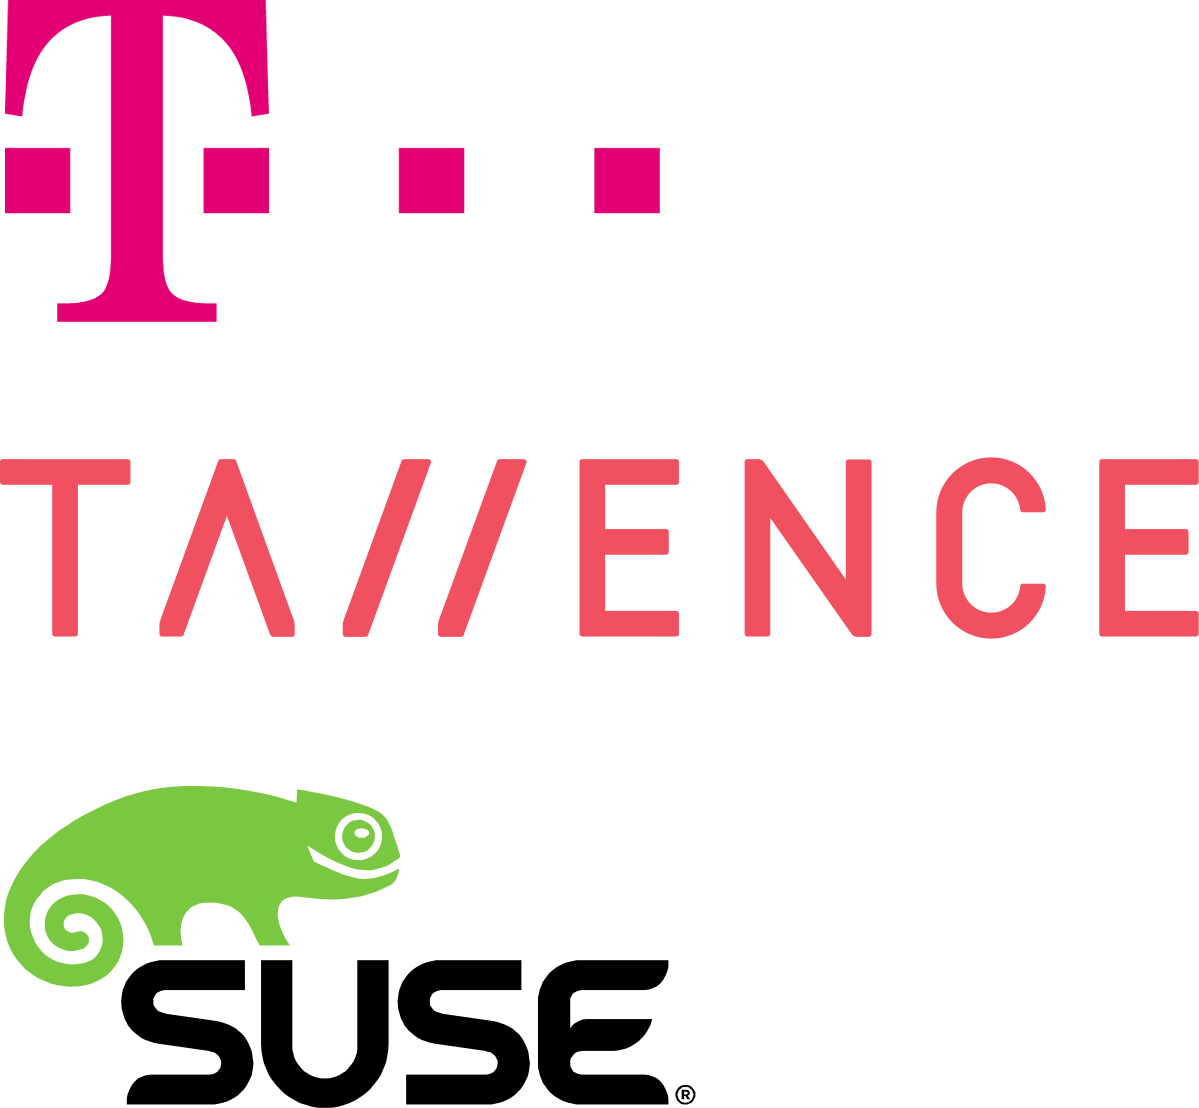
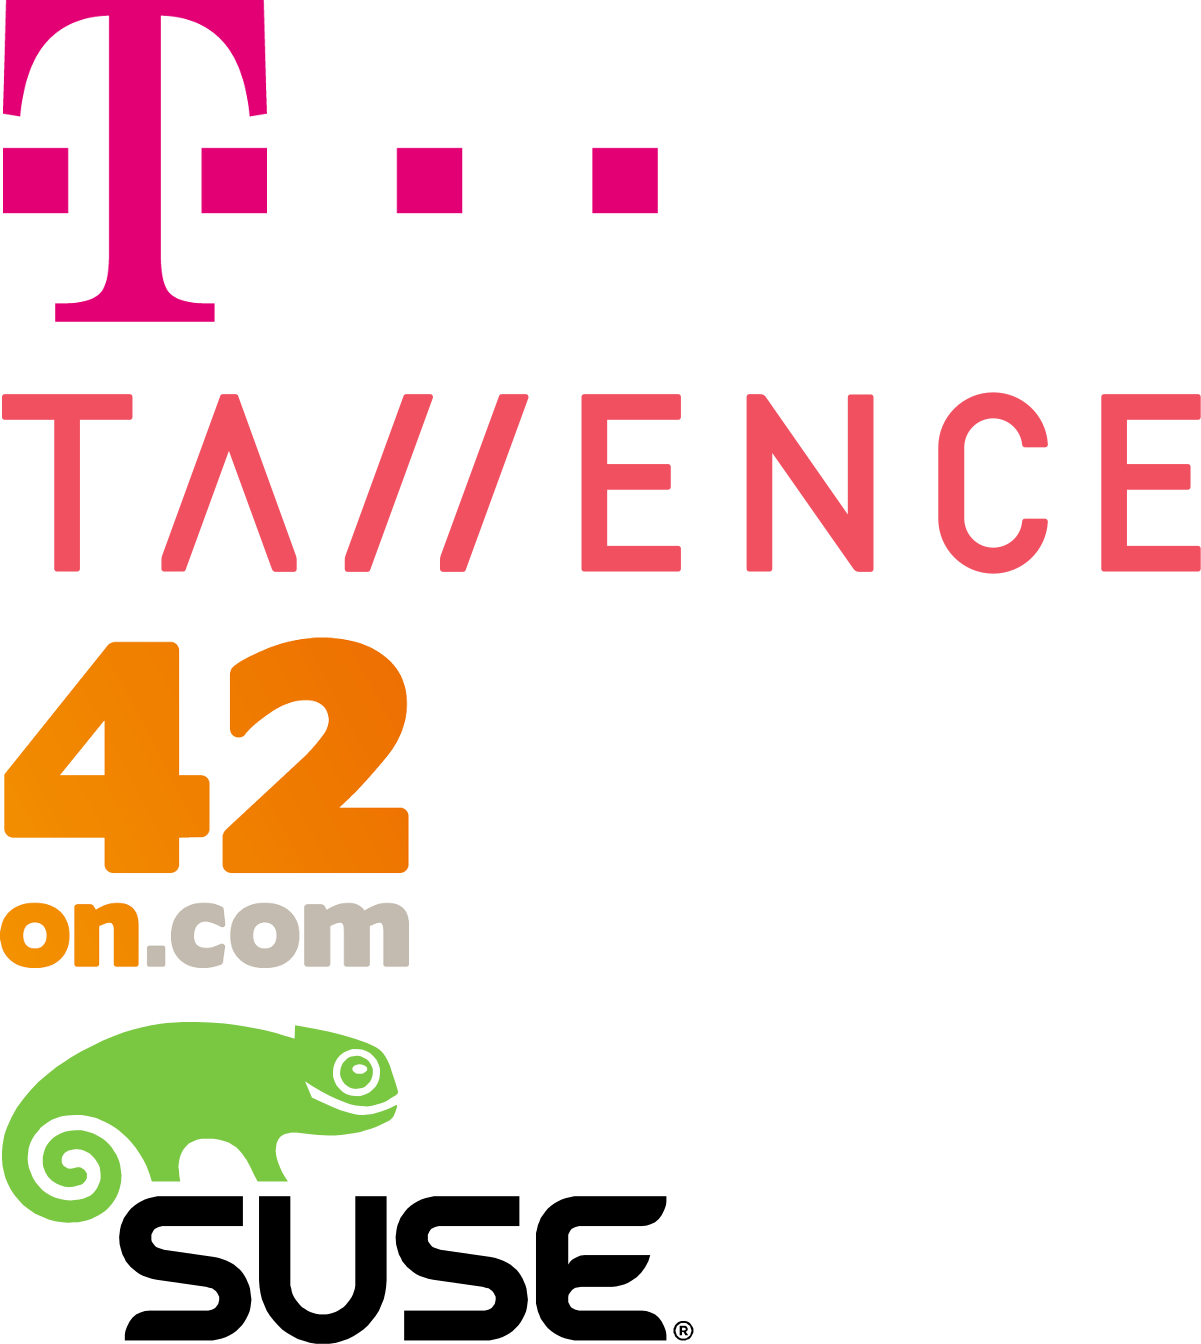
add missing partner 42on.com

diff --git a/markdown/librmb.md b/markdown/librmb.md
@@ -33,7 +33,7 @@
 <!-- .slide: data-state="normal" id="librmb-DT" data-timing="20s" data-menu-title="DT's approach" -->
 ## DT's approach
 <div>
-     <img style="height: 60%; left: 60%; position: absolute" alt="Partner"
+     <img style="height: 65%; left: 65%; position: absolute" alt="Partner"
           data-src="images/partner.png" />
 </div>
 
@@ -41,8 +41,10 @@
 * closed source is no option
 * develop / sponsor a solution
 * open source it
-* partner with `Tallence AG` for development
-* partner with `SUSE` for Ceph
+* partner with:
+  * `Wido den Hollander (42on.com)` for consulting
+  * `Tallence AG` for development
+  * `SUSE` for Ceph
 
 
 <!-- .slide: data-state="normal" id="librmb-DT-1" data-timing="20s" data-menu-title="Ceph Dovecot Plugin" -->
